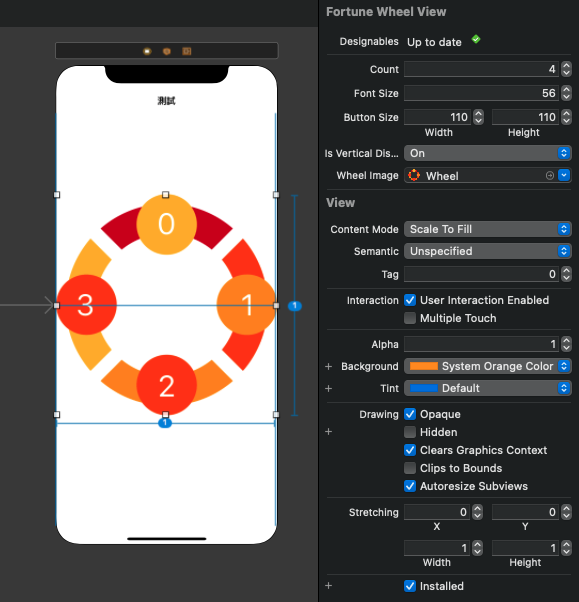
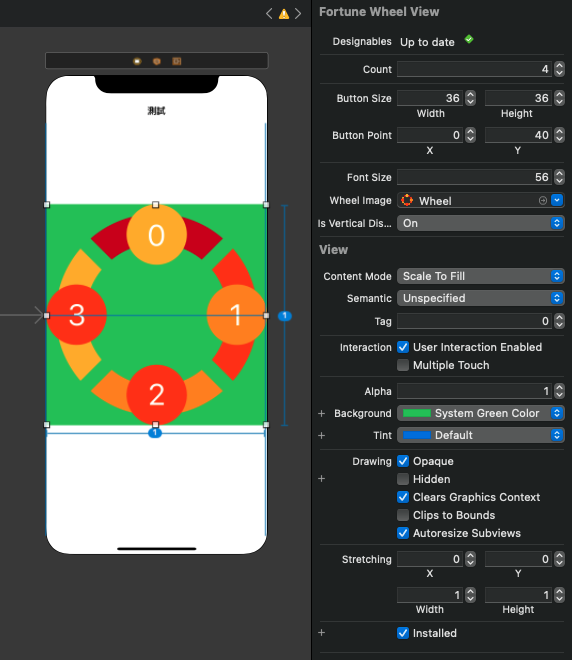
加上設定Button的位置

Changed region(s): [[0.0, 0.0, 1.0, 1.0], [0.4755, 0.0, 0.5052, 0.0299]]

diff --git a/Sources/WWFortuneWheelView/WWFortuneWheelView.swift b/Sources/WWFortuneWheelView/WWFortuneWheelView.swift
@@ -14,10 +14,11 @@ open class WWFortuneWheelView: UIView {
     typealias RotationParameter = (radian: CGFloat, deltaRadian: CGFloat, transform: CGAffineTransform)
     
     @IBInspectable public var count: Int = 4
-    @IBInspectable public var fontSize: CGFloat = 12.0
     @IBInspectable public var buttonSize: CGSize = CGSize(width: 36, height: 36)
-    @IBInspectable public var isVerticalDisplay: Bool = false
+    @IBInspectable public var buttonPoint: CGPoint = CGPoint(x: 0, y: 0)
+    @IBInspectable public var fontSize: CGFloat = 12.0
     @IBInspectable public var wheelImage: UIImage = UIImage()
+    @IBInspectable public var isVerticalDisplay: Bool = false
 
     @IBOutlet weak var contentView: UIView!
     @IBOutlet weak var wheelView: UIView!
@@ -43,7 +44,7 @@ open class WWFortuneWheelView: UIView {
     }
     
     override public func draw(_ rect: CGRect) {
-        bullseyeButtonsCountSetting(with: count, buttonSize: buttonSize, fontSize: fontSize, isVerticalDisplay: isVerticalDisplay, wheelImage: wheelImage)
+        bullseyeButtonsCountSetting(with: count, buttonSize: buttonSize, buttonPoint: buttonPoint, fontSize: fontSize, wheelImage: wheelImage, isVerticalDisplay: isVerticalDisplay)
         #if TARGET_INTERFACE_BUILDER
         #endif
     }
@@ -144,10 +145,13 @@ private extension WWFortuneWheelView {
     ///   - buttonSize: 按鍵大小
     ///   - fontSize: 文字大小
     ///   - isVerticalDisplay: 滾輪按鍵是否要跟著轉？
-    func bullseyeButtonsCountSetting(with count: Int, buttonSize: CGSize = CGSize(width: 36, height: 36), fontSize: CGFloat = 12.0, isVerticalDisplay: Bool = true, wheelImage: UIImage) {
+    ///   - buttonPoint: 按鍵的位置
+    ///   - wheelImage: 滾輪的底圖
+    func bullseyeButtonsCountSetting(with count: Int, buttonSize: CGSize = CGSize(width: 36, height: 36), buttonPoint: CGPoint = .zero, fontSize: CGFloat = 12.0, wheelImage: UIImage, isVerticalDisplay: Bool = true) {
         
         self.count = count
         self.buttonSize = buttonSize
+        self.buttonPoint = buttonPoint
         self.isVerticalDisplay = isVerticalDisplay
         self.wheelImage = wheelImage
         self.fontSize = fontSize
@@ -157,7 +161,7 @@ private extension WWFortuneWheelView {
             
             let angle = angleMaker(with: count, for: index)
             let label = wheelLabelMaker(with: buttonSize.width, tag: index, angle: angle)
-            let button = wheelButtonMaker(with: index, size: buttonSize, fontSize: fontSize, isVerticalDisplay: isVerticalDisplay, angle: angle)
+            let button = wheelButtonMaker(with: index, size: buttonSize, fontSize: fontSize, origin: buttonPoint, angle: angle, isVerticalDisplay: isVerticalDisplay)
             
             label.addSubview(button)
             wheelView.addSubview(label)
@@ -192,10 +196,11 @@ private extension WWFortuneWheelView {
     ///   - fontSize: CGFloat
     ///   - isVerticalDisplay: Bool
     ///   - angle: CGFloat
+    ///   - origin: CGPoint
     /// - Returns: UIButton
-    func wheelButtonMaker(with index: Int, size: CGSize, fontSize: CGFloat = 12.0, isVerticalDisplay: Bool, angle: CGFloat) -> UIButton {
+    func wheelButtonMaker(with index: Int, size: CGSize, fontSize: CGFloat = 12.0, origin: CGPoint, angle: CGFloat, isVerticalDisplay: Bool) -> UIButton {
         
-        let button = UIButton(frame: CGRect(origin: .zero, size: size))
+        let button = UIButton(frame: CGRect(origin: origin, size: size))
         
         button.tag = index
         button.setTitle("\(index)", for: .normal)
